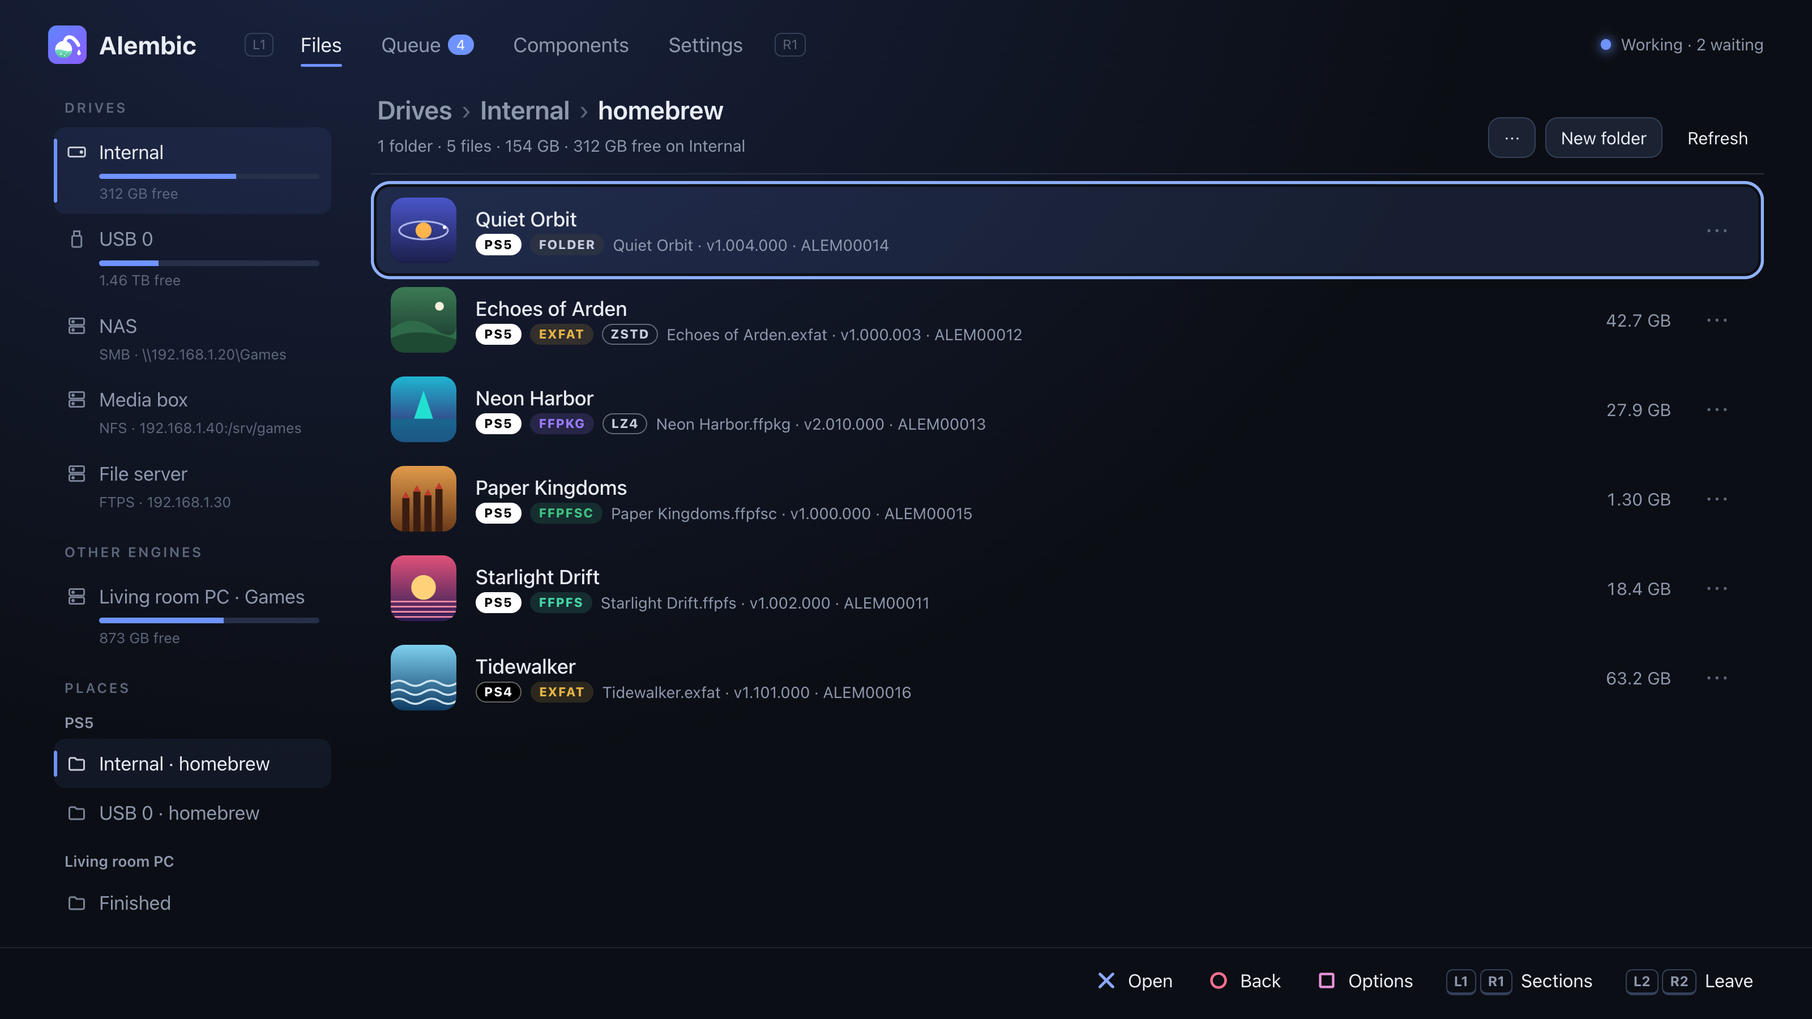
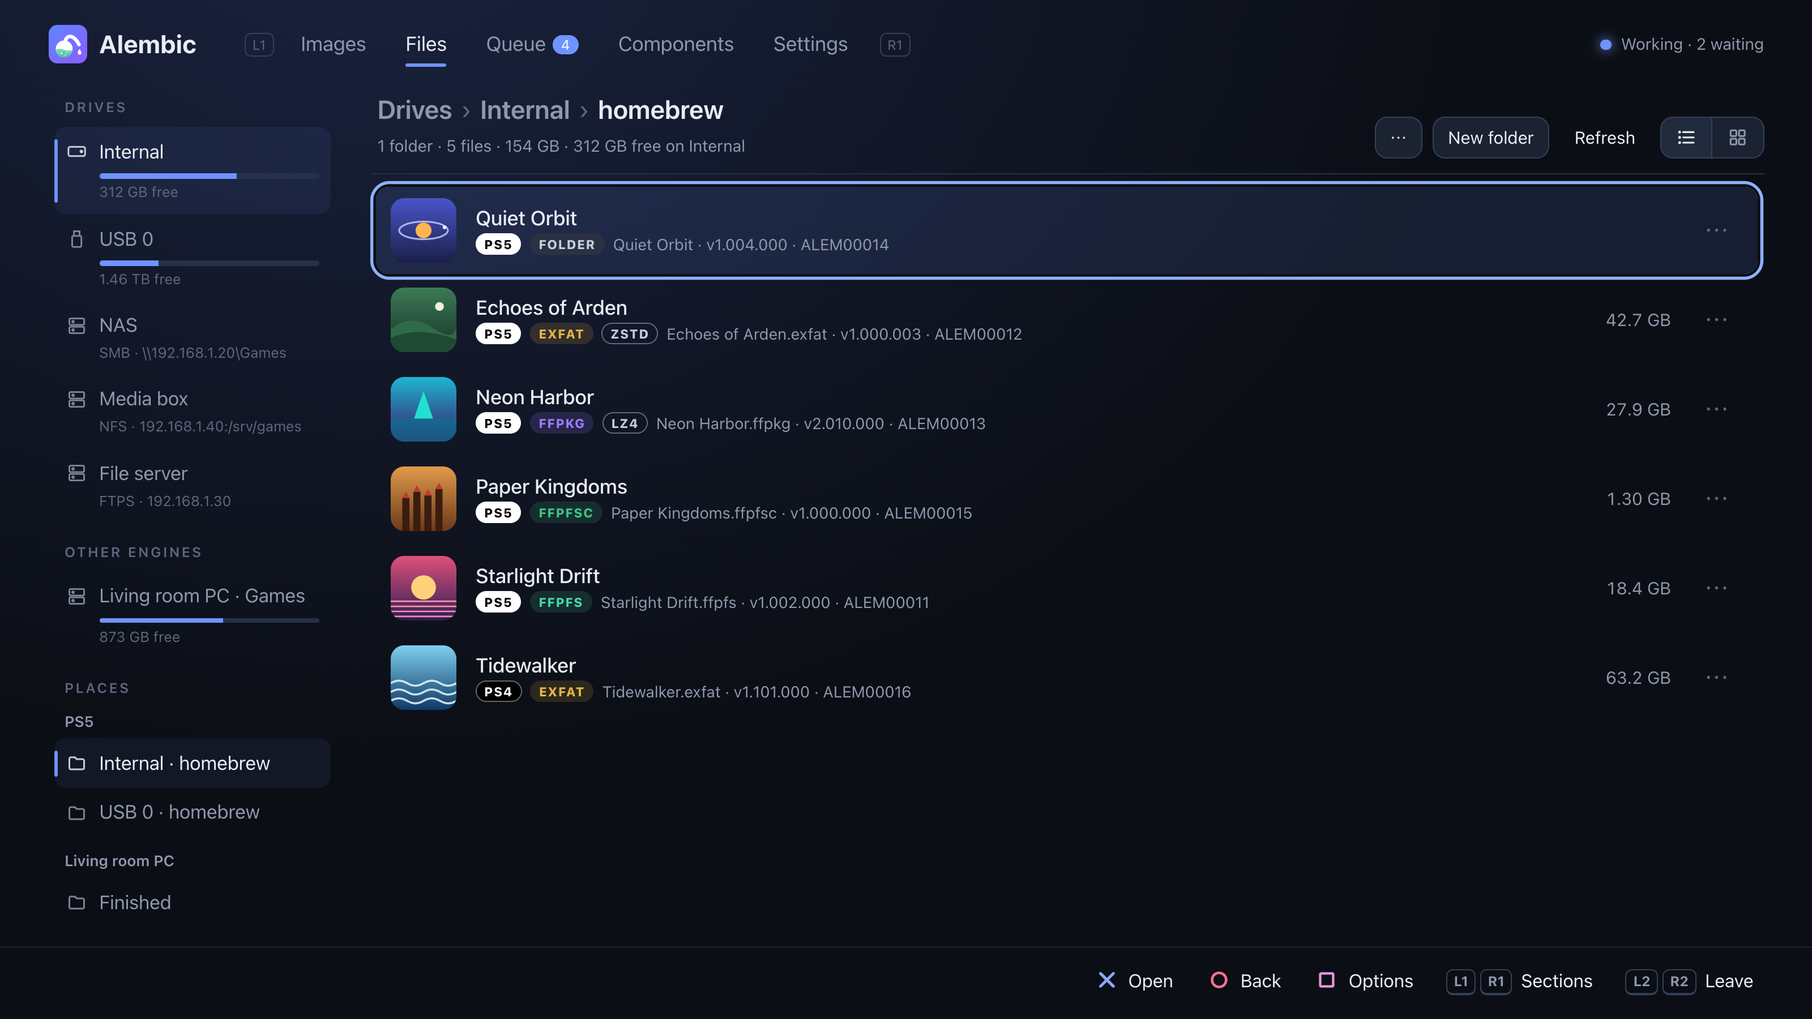
Images first: the home tab on a PS5 engine
Tabs are Images, Files, Queue, Components, Settings everywhere; the page and
the app open on Images when the engine is a PS5 and on Files on a PC's, and
leaving returns there. A PS5 engine reads the Images list at start. README:
the Images grid is the first picture, the list view in the Images section,
Files beside Convert; every screenshot remade.

diff --git a/src/engine/web/src/input/history.ts b/src/engine/web/src/input/history.ts
@@ -3,7 +3,7 @@
 // dialogs each get a history entry, and going back is history.back().
 import { overlays, popOverlay } from "../components/Overlay";
 import { toast } from "../components/Toasts";
-import { tab, cwd, circleConfirms, TABS, type Tab } from "../state/view";
+import { tab, cwd, circleConfirms, homeTab, TABS, type Tab } from "../state/view";
 import { browse } from "../pages/files/browse";
 import { selecting, endSelecting } from "../state/selection";
 import { t } from "../lib/i18n";
@@ -38,7 +38,7 @@ function stepBack() {
   history.back();
 }
 function afterLeave() {
-  if (tab.value !== "files") showTab("files", false);
+  if (tab.value !== homeTab()) showTab(homeTab(), false);
   if (cwd.value !== "/") browse("/", false);
   toast(t("Press {b} once more to leave Alembic", { b: circleConfirms() ? "✕" : "○" }), "ok");
   try { window.close(); } catch (e) { /* works only where the browser allows it */ }
@@ -61,11 +61,11 @@ window.addEventListener("popstate", (e) => {
     if (!overlays.value.length && history.state && history.state.select && !selecting.value) history.back();
     return;
   }
-  const s: NavState = e.state || { view: "files", path: "/" };
+  const s: NavState = e.state || { view: homeTab(), path: "/" };
   if (s.overlay) { history.back(); return; } // a stale overlay entry
   if (s.select && !selecting.value) { history.back(); return; } // a selection that has ended
   if (selecting.value && !s.select) endSelecting(); // ○ while selecting ends it
-  showTab((s.view || "files") as any, false);
+  showTab((s.view || homeTab()) as any, false);
   if ((s.view || "files") === "files" && s.path && s.path !== cwd.value) browse(s.path, false);
 });
 

diff --git a/src/engine/web/src/main.tsx b/src/engine/web/src/main.tsx
@@ -14,6 +14,7 @@ import { App } from "./app/App";
 import "./debug";
 import { effect } from "@preact/signals";
 import { info, loadInfo, notConnected } from "./state/engine";
+import { tab, homeTab } from "./state/view";
 import { refreshJobs } from "./state/jobs";
 import { lang, loadTranslations, t, tMsg } from "./lib/i18n";
 import { browse } from "./pages/files/browse";
@@ -27,11 +28,17 @@ applyScale();
 window.addEventListener("resize", applyScale);
 // A reload keeps its place in the history: the entries before it are the
 // page's too, and leaving (L2 + R2) goes back through them.
-history.replaceState({ view: "files", path: "/", depth: depth() }, "");
+history.replaceState({ view: tab.value, path: "/", depth: depth() }, "");
 // Drawn once the translations are in, so the page never starts in English.
 loadTranslations(lang.value).then(() => {
   render(<App />, document.getElementById("app")!);
-  loadInfo().then(() => browse("/", false))
+  loadInfo().then(() => {
+    // The engine said what it runs on: start on its home tab when this first
+    // view is still the one guessed (nothing chosen yet).
+    const home = homeTab();
+    if (home !== tab.value && depth() === 0) { tab.value = home; history.replaceState({ view: home, path: "/", depth: 0 }, ""); }
+    browse("/", false);
+  })
     .catch((e) => { notConnected.value = t("Engine not reachable: {error}", { error: tMsg(e.message) }); browse("/", false); });
   refreshJobs();
   setInterval(refreshJobs, 1000);

diff --git a/src/engine/web/src/state/view.ts b/src/engine/web/src/state/view.ts
@@ -6,10 +6,16 @@ import { info } from "./engine";
 import { IS_PS5 } from "../lib/env";
 import { store } from "../lib/storage";
 
-export const TABS = ["files", "images", "queue", "deps", "settings"] as const;
+export const TABS = ["images", "files", "queue", "deps", "settings"] as const;
 export type Tab = (typeof TABS)[number];
 
-export const tab = signal<Tab>("files");
+// The tab the page starts on (and leaving returns to): Images on a PS5
+// engine, its library; Files on a PC's, where Images mostly holds Downloads.
+// Before the engine answers, the console's browser is taken for a PS5's.
+export function homeTab(): Tab {
+  return info.value ? (info.value.platform === "ps5" ? "images" : "files") : IS_PS5 ? "images" : "files";
+}
+export const tab = signal<Tab>(homeTab());
 
 // How Files and Images show their entries (the switch above each): a list,
 // or a grid of tiles. Kept per browser; Files starts as a list, Images as a grid.

diff --git a/src/engine/web/src/app/Header.tsx b/src/engine/web/src/app/Header.tsx
@@ -27,8 +27,8 @@ export function Header() {
       <div class="logo"><img src="/icon.svg" alt="" />Alembic</div>
       <nav class="tabs" id="tabs">
         <span class="shoulder" data-pad hidden={!pad.value}>L1</span>
-        {tabButton("files", t("Files"))}
         {tabButton("images", t("Images"))}
+        {tabButton("files", t("Files"))}
         {tabButton("queue", t("Queue"), <span class="badge" id="qcount" hidden={!n}>{n}</span>)}
         {tabButton("deps", t("Components"))}
         {tabButton("settings", t("Settings"))}

diff --git a/app/src/app/app.cpp b/app/src/app/app.cpp
@@ -201,6 +201,13 @@ void App::load_info() {
                     get("/api/peer-drives", [this, i, sp, loc, f](const Reply& pd) {
                         get("/api/peers", [this, i, sp, loc, f, pd](const Reply& p) {
                             info = i;
+                            // Start on the engine's home tab: Images on a PS5 (its library),
+                            // Files on a PC; only when nothing has been chosen yet.
+                            if (!home_chosen_) {
+                                home_chosen_ = true;
+                                if (i["platform"].str() == "ps5" && tab == Tab::files && (cwd.empty() || cwd == "/") && overlays_.empty())
+                                    show_tab(Tab::images);
+                            }
                             if (sp.ok()) space = sp.json;
                             if (loc.ok()) locations = loc.json;
                             if (f.ok()) servers = f.json;
@@ -881,7 +888,7 @@ void App::frame(Ui& ui) {
 
 void App::handle_global(Ui& ui) {
     if (ui.pressed(Action::page_prev) || ui.pressed(Action::page_next)) {
-        static const Tab order[] = {Tab::files, Tab::images, Tab::queue, Tab::deps, Tab::settings};
+        static const Tab order[] = {Tab::images, Tab::files, Tab::queue, Tab::deps, Tab::settings};
         int i = 0;
         while (order[i] != tab) ++i;
         i = (i + (ui.pressed(Action::page_next) ? 1 : 4)) % 5;
@@ -953,7 +960,7 @@ void App::draw_header(Ui& ui) {
         Tab id;
         std::string label;
     };
-    const TabDef tabs[] = {{Tab::files, t("Files")}, {Tab::images, t("Images")}, {Tab::queue, t("Queue")}, {Tab::deps, t("Components")},
+    const TabDef tabs[] = {{Tab::images, t("Images")}, {Tab::files, t("Files")}, {Tab::queue, t("Queue")}, {Tab::deps, t("Components")},
                            {Tab::settings, t("Settings")}};
     for (const auto& td : tabs) {
         const float s = 1.05f * R;

diff --git a/app/src/app/app.hpp b/app/src/app/app.hpp
@@ -61,7 +61,7 @@ struct Meta {
     bool icon = false;
 };
 
-enum class Tab { files, images, queue, deps, settings };
+enum class Tab { images, files, queue, deps, settings };
 
 enum class Glyph { cross, circle, square, triangle, l1r1, l2r2, dpad, options };
 struct Hint {
@@ -203,6 +203,7 @@ public:
 
     // ---- sections, dialogs, toasts ----
     Tab tab = Tab::files;
+    bool home_chosen_ = false;  // the first info said which tab to start on (Images on a PS5 engine)
     void show_tab(Tab t);
     void open(std::unique_ptr<Overlay> overlay);
     void close(Overlay* overlay);

diff --git a/src/engine/main.cpp b/src/engine/main.cpp
@@ -314,6 +314,9 @@ public:
         updater_ = std::make_unique<update::Updater>(std::move(u));
         if (config_.check_updates) updater_->check();
         if (config_.check_updates) check_components(true);
+        // The console's page and app open on Images: its list is read now,
+        // so it is there when they first ask.
+        if (std::string(platform::name()) == "ps5") (void)images_.snapshot(0);
         return {};
     }
 

diff --git a/README.ja.md b/README.ja.md
@@ -4,7 +4,7 @@
 
 *これは [英語の README](README.md) の翻訳です。内容が異なる場合は、英語版が最新です。*
 
-![PS5 のブラウザーで開いた Alembic のページ: さまざまな形式のゲームのライブラリー。左側にドライブ、NAS の共有フォルダー、NFS エクスポート、FTPS サーバー、ペアリングした PC](docs/screenshots/files.png)
+![イメージ: ShadowMount+ のフォルダーにあるゲームのグリッド、アップデートできる AMPR エミュレーター 2 件、エミュレーターのないゲーム、Alembic が知らないビルドのゲーム](docs/screenshots/images.png)
 
 Alembic は、PS5 と PS4 のゲームを homebrew ローダーが使う形式のあいだで変換します。
 対応形式は、パッケージ（PS5 のデバッグ FPKG、PS4 の fake PKG）、ダンプフォルダー、exFAT イメージ、FFPKG
@@ -122,7 +122,7 @@ PS5 のデバッグ FPKG に、PS4 ゲーム（`sce_sys/param.sfo`）は PS4 の
 ネットワーク上の任意のブラウザーで `http://<console-ip>:5940` を開いても使えます。
 アプリとページは同じ内容を表示し、同じように動作します。
 
-![PS5 上の Alembic アプリ: さまざまな形式のゲームが入った homebrew フォルダー。左側にドライブ、NAS の共有フォルダー、NFS エクスポート、ペアリングした PC](docs/screenshots/app.png)
+![PS5 上の Alembic アプリ: イメージ。ShadowMount+ のフォルダーにあるゲームを AMPR エミュレーターの状態とともにグリッドで表示](docs/screenshots/app.png)
 
 **アプリ**（`PPSA99594`、0.3.0 から）のインストール方法は 2 つあります。
 
@@ -154,6 +154,8 @@ PS5 のデバッグ FPKG に、PS4 ゲーム（`sce_sys/param.sfo`）は PS4 の
 4. ジョブは **キュー** で 1 つずつ実行されます。一時停止、再開（時間のかかるジョブは
    チェックポイントから続行）、並べ替え、キャンセルができます。ジョブが終わると
    通知が届きます。
+
+![PS5 のブラウザーで開いた Alembic のページ: さまざまな形式のゲームのライブラリー。左側にドライブ、NAS の共有フォルダー、NFS エクスポート、FTPS サーバー、ペアリングした PC](docs/screenshots/files.png)
 
 ![変換ダイアログ: 変換先の形式、圧縮レベル、LZ4 パックと zstd パックのスイッチ、AMPR エミュレーターのスイッチ、ペアリングした PC 上の出力先](docs/screenshots/convert.png)
 
@@ -237,8 +239,9 @@ PS5 のデバッグ FPKG に、PS4 ゲーム（`sce_sys/param.sfo`）は PS4 の
   続きます（送る、変換などはファイルと同じように使えます）。AMPR
   エミュレーターは PS5 上で、その PS5 自身のゲームについてだけ表示・
   アップデートされます。
+  PS5 ではページとアプリがイメージで開き、PC ではファイルで開きます。
 
-  ![イメージ: ShadowMount+ のフォルダーにあるゲームのグリッド、アップデートできる AMPR エミュレーター 2 件、エミュレーターのないゲーム、Alembic が知らないビルドのゲーム](docs/screenshots/images.png)
+  ![イメージ: ShadowMount+ のフォルダーにあるゲームのリスト、アップデートできる AMPR エミュレーター 2 件、エミュレーターのないゲーム、Alembic が知らないビルドのゲーム](docs/screenshots/images-list.png)
 - **コンポーネント:** Alembic が必要とするものの同梱していないサードパーティのファイル（AMPR
   エミュレーターの ampr_emu と ampr-emu-ng、ProsperoPkgTool の FPKG 鍵ファイル、
   LibOrbisPkg のライセンスと PS4 パッケージの鍵）は、求めに応じて

diff --git a/README.zh.md b/README.zh.md
@@ -4,7 +4,7 @@
 
 *本文是[英文 README](README.md) 的译文；两者不一致时，以英文版为准。*
 
-![PS5 浏览器中的 Alembic 页面：多种格式的游戏库，左侧是驱动器、一个 NAS 共享、一个 NFS 导出、一个 FTPS 服务器和一台已配对的 PC](docs/screenshots/files.png)
+![镜像：ShadowMount+ 文件夹中的游戏网格，两个可更新的 AMPR 模拟器，一个没有模拟器的游戏，以及一个使用 Alembic 不认识的版本的游戏](docs/screenshots/images.png)
 
 Alembic 在自制加载器所用的各种格式之间转换 PS5 和 PS4 游戏：
 安装包（PS5 debug FPKG、PS4 fake PKG）、转储文件夹、exFAT 镜像、FFPKG
@@ -102,7 +102,7 @@ LZ4 资源包对部分游戏有效，对另一些无效。
 （通过它添加到“媒体”标签页的快捷方式），或在网络中任意浏览器里打开
 `http://<console-ip>:5940`。应用和页面显示的内容相同，用法也相同。
 
-![PS5 上的 Alembic 应用：一个包含多种格式游戏的 homebrew 文件夹，左侧是驱动器、一个 NAS 共享、一个 NFS 导出和一台已配对的 PC](docs/screenshots/app.png)
+![PS5 上的 Alembic 应用：镜像，ShadowMount+ 文件夹中的游戏以网格显示，并附带其 AMPR 模拟器状态](docs/screenshots/app.png)
 
 **应用**（`PPSA99594`，从 0.3.0 起）有两种安装方式：
 
@@ -130,6 +130,8 @@ LZ4 资源包对部分游戏有效，对另一些无效。
    安装包会被删除，除非开启了**保留安装包**，因此在那之前需要留出空间。
 4. 任务在**队列**中逐个运行：可以暂停、继续（长任务从检查点接着进行）、
    调整顺序、取消。任务完成时你会收到通知。
+
+![PS5 浏览器中的 Alembic 页面：多种格式的游戏库，左侧是驱动器、一个 NAS 共享、一个 NFS 导出、一个 FTPS 服务器和一台已配对的 PC](docs/screenshots/files.png)
 
 ![“转换”对话框：目标格式、压缩级别、LZ4 和 zstd 包开关、AMPR 模拟器开关，以及位于已配对 PC 上的输出路径](docs/screenshots/convert.png)
 
@@ -191,8 +193,9 @@ LZ4 资源包对部分游戏有效，对另一些无效。
   系统“下载”文件夹中的软件包。
   之后是已配对引擎的镜像，每个引擎一节（发送、转换等操作与“文件”中相同）；
   AMPR 模拟器只在 PS5 上针对它自己的游戏显示和更新。
+  在 PS5 上，页面和应用会打开“镜像”；在电脑上则打开“文件”。
 
-  ![镜像：ShadowMount+ 文件夹中的游戏网格，两个可更新的 AMPR 模拟器，一个没有模拟器的游戏，以及一个使用 Alembic 不认识的版本的游戏](docs/screenshots/images.png)
+  ![镜像：ShadowMount+ 文件夹中的游戏列表，两个可更新的 AMPR 模拟器，一个没有模拟器的游戏，以及一个使用 Alembic 不认识的版本的游戏](docs/screenshots/images-list.png)
 - **组件：** Alembic 需要但不随附的第三方文件（AMPR 模拟器 ampr_emu 和
   ampr-emu-ng、ProsperoPkgTool 的 FPKG 密钥文件、LibOrbisPkg 的许可证密钥和
   PS4 安装包密钥）会按需从官方来源下载，只有 SHA-256 匹配时才保留。

diff --git a/README.tr.md b/README.tr.md
@@ -4,7 +4,7 @@
 
 *Bu metin [İngilizce README](README.md)'nin çevirisidir; aralarında fark varsa güncel olan İngilizcesidir.*
 
-![PS5 tarayıcısında Alembic sayfası: çeşitli biçimlerde oyunlardan oluşan bir kitaplık; solda sürücüler, bir NAS paylaşımı, bir NFS dışa aktarımı, bir FTPS sunucusu ve eşleştirilmiş bir PC](docs/screenshots/files.png)
+![İmajlar: ShadowMount+ klasörlerindeki oyunlar ızgara olarak, güncellenecek iki AMPR öykünücüsü, öykünücüsü olmayan bir oyun ve Alembic'in tanımadığı bir derlemeye sahip bir oyun](docs/screenshots/images.png)
 
 Alembic, PS5 ve PS4 oyunlarını homebrew yükleyicilerin kullandığı biçimler
 arasında dönüştürür: paketler (PS5 debug FPKG, PS4 fake PKG), döküm
@@ -133,7 +133,7 @@ eklediği kısayoldan) ya da ağınızdaki herhangi bir tarayıcıda
 `http://<console-ip>:5940` adresinde. Uygulama ve sayfa aynı şeyleri gösterir
 ve aynı şekilde çalışır.
 
-![PS5'te Alembic uygulaması: çeşitli biçimlerde oyunların olduğu bir homebrew klasörü; solda sürücüler, bir NAS paylaşımı, bir NFS dışa aktarımı ve eşleştirilmiş bir PC](docs/screenshots/app.png)
+![PS5'teki Alembic uygulaması: İmajlar, ShadowMount+ klasörlerindeki oyunlar AMPR öykünücü durumlarıyla ızgara olarak](docs/screenshots/app.png)
 
 **Uygulama** (`PPSA99594`, 0.3.0'dan beri) iki yoldan kurulur:
 
@@ -167,6 +167,8 @@ sürümünün motorunu GitHub sürümünden indirir ve `SHA256SUMS` ile denetler
 4. İşler **Kuyruk**'ta teker teker çalışır: duraklatın, sürdürün (uzun işler
    son kayıt noktasından devam eder), sıralarını değiştirin, iptal edin. Bir
    iş bitince bildirim alırsınız.
+
+![PS5 tarayıcısında Alembic sayfası: çeşitli biçimlerde oyunlardan oluşan bir kitaplık; solda sürücüler, bir NAS paylaşımı, bir NFS dışa aktarımı, bir FTPS sunucusu ve eşleştirilmiş bir PC](docs/screenshots/files.png)
 
 ![Dönüştür penceresi: hedef biçimler, sıkıştırma seviyesi, LZ4 ve zstd paket anahtarları, AMPR öykünücüsü anahtarı ve eşleştirilmiş bir PC'deki çıktı yolu](docs/screenshots/convert.png)
 
@@ -255,8 +257,9 @@ Sayfada ayrıca:
   ardından gelir (Gönder, Dönüştür ve diğerleri Dosyalar'daki gibi çalışır);
   AMPR öykünücüleri yalnızca bir PS5'te, kendi oyunları için gösterilir ve
   güncellenir.
+  Bir PS5'te sayfa ve uygulama İmajlar ile açılır; bilgisayarda Dosyalar ile.
 
-  ![İmajlar: ShadowMount+ klasörlerindeki oyunlar ızgara olarak, güncellenecek iki AMPR öykünücüsü, öykünücüsü olmayan bir oyun ve Alembic'in tanımadığı bir derlemeye sahip bir oyun](docs/screenshots/images.png)
+  ![İmajlar: ShadowMount+ klasörlerindeki oyunlar liste olarak, güncellenecek iki AMPR öykünücüsü, öykünücüsü olmayan bir oyun ve Alembic'in tanımadığı bir derlemeye sahip bir oyun](docs/screenshots/images-list.png)
 - **Bileşenler:** Alembic'in ihtiyaç duyduğu ama kendisiyle gelmeyen üçüncü
   taraf dosyalar (AMPR öykünücüleri ampr_emu ve ampr-emu-ng,
   ProsperoPkgTool'un FPKG anahtar dosyaları, LibOrbisPkg'nin lisans ve PS4

diff --git a/README.fr.md b/README.fr.md
@@ -4,7 +4,7 @@
 
 *Ceci est une traduction du [README anglais](README.md) ; en cas de différence, c'est la version anglaise qui fait foi.*
 
-![La page d'Alembic dans le navigateur de la PS5 : une bibliothèque de jeux en plusieurs formats, avec à gauche des disques, un partage NAS, un export NFS, un serveur FTPS et un PC associé](docs/screenshots/files.png)
+![Images : les jeux des dossiers de ShadowMount+ en grille, deux émulateurs AMPR à mettre à jour, un jeu sans émulateur et un autre avec une version qu'Alembic ne connaît pas](docs/screenshots/images.png)
 
 Alembic convertit les jeux PS5 et PS4 entre les formats qu'utilisent les
 chargeurs homebrew : paquets (FPKG debug PS5, fake PKG PS4), dossiers de dump,
@@ -135,7 +135,7 @@ raccourci qu'il ajoute à l'onglet Multimédia) ou dans n'importe quel navigateu
 de votre réseau à l'adresse `http://<console-ip>:5940`. L'application et la
 page affichent les mêmes choses et fonctionnent de la même façon.
 
-![L'application Alembic sur la PS5 : un dossier homebrew avec des jeux en plusieurs formats, et à gauche des disques, un partage NAS, un export NFS et un PC associé](docs/screenshots/app.png)
+![L'app Alembic sur la PS5 : Images, les jeux des dossiers de ShadowMount+ en grille avec l'état de leurs émulateurs AMPR](docs/screenshots/app.png)
 
 **L'application** (`PPSA99594`, depuis 0.3.0) s'installe de l'une de ces façons :
 
@@ -171,6 +171,8 @@ moteur de sa propre version depuis la version publiée sur GitHub, vérifié ave
 4. Les tâches s'exécutent une à la fois dans **File** : pause, reprise (les
    longues tâches repartent d'un point de reprise), réordonnancement,
    annulation. Une notification vous prévient quand l'une d'elles se termine.
+
+![La page d'Alembic dans le navigateur de la PS5 : une bibliothèque de jeux en plusieurs formats, avec à gauche des disques, un partage NAS, un export NFS, un serveur FTPS et un PC associé](docs/screenshots/files.png)
 
 ![La fenêtre Convertir : formats cibles, niveau de compression, les interrupteurs des paquets LZ4 et zstd, celui de l'émulateur AMPR, et le chemin de sortie sur un PC associé](docs/screenshots/convert.png)
 
@@ -263,8 +265,9 @@ Aussi sur la page :
   Convertir et le reste y fonctionnent comme dans Fichiers) ; les
   émulateurs AMPR ne sont montrés et mis à jour que sur une PS5, pour ses
   propres jeux.
+  Sur une PS5, la page et l'app s'ouvrent sur Images ; sur un PC, sur Fichiers.
 
-  ![Images : les jeux des dossiers de ShadowMount+ en grille, deux émulateurs AMPR à mettre à jour, un jeu sans émulateur et un autre avec une version qu'Alembic ne connaît pas](docs/screenshots/images.png)
+  ![Images : les jeux des dossiers de ShadowMount+ en liste, deux émulateurs AMPR à mettre à jour, un jeu sans émulateur et un autre avec une version qu'Alembic ne connaît pas](docs/screenshots/images-list.png)
 - **Composants :** les fichiers tiers dont Alembic a besoin mais qu'il ne
   fournit pas (les émulateurs AMPR ampr_emu et ampr-emu-ng, les fichiers de clés
   FPKG de ProsperoPkgTool, les clés de licence et de paquets PS4 de
